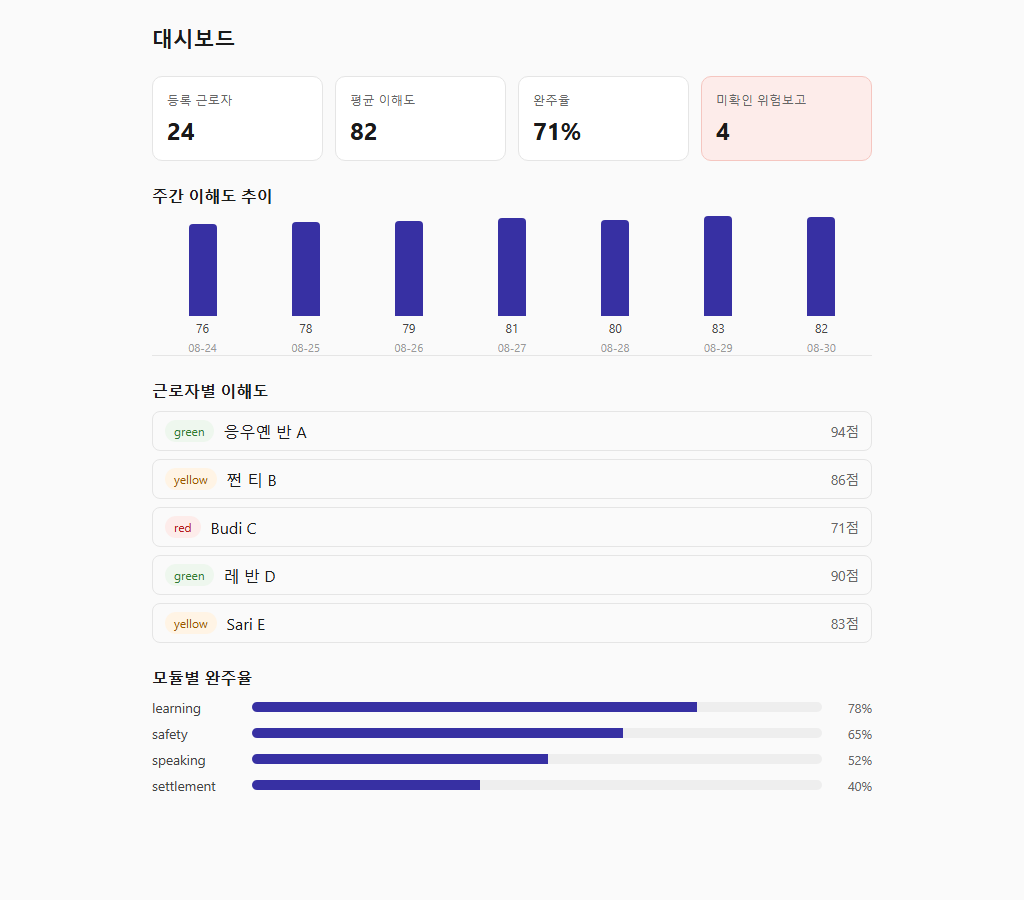
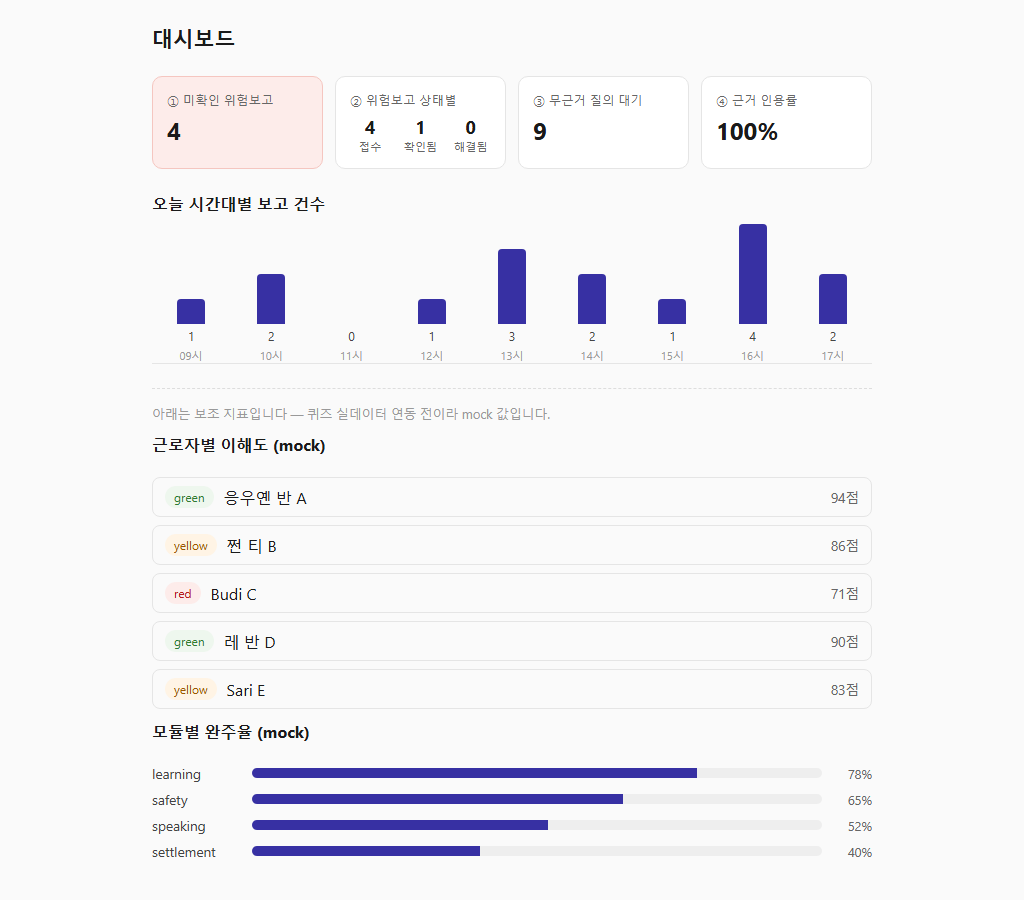
fix(frontend): B KPI 확정판 정정 — 4종 재구성 + 시간대별 추이
영향: JH

총괄 0830 정정 반영. KPI 4종:
① 미확인 위험보고 수 — A와 같은 mock 저장소를 직접 집계
   (adminReports.fixtures.statusCounts) — 고정값 아님, A에서 ack/resolve
   하면 B도 같이 바뀐다
② 위험보고 상태별 3칸(submitted/acknowledged/resolved, % 없음) — 동일 소스
③ 무근거 질의 대기 수 — mock 9(총괄 지정, unanswered_queue 실API 전)
④ 근거 인용률 % — mock 100(총괄 지정)

추이: 주간 → 오늘 시간대별(hourly) 보고 건수로 교체.
근로자별 라벨·모듈별 완주율은 제거 대신 하단 보조 영역으로 강등,
"mock" 명시 + 안내 문구 — 퀴즈 실데이터 연동 전 표시.

C·A 무변경. SB 실API 계약 표 나오면 dashboard.ts의 USE_MOCK 분기만
소비 전환(shape 그대로 유지 가능하도록 types.ts에 이미 반영).

DoD 캡처 갱신: docs/assets/v3-2-admin-dashboard.png

diff --git a/frontend/src/apps/admin/screens/Dashboard/index.tsx b/frontend/src/apps/admin/screens/Dashboard/index.tsx
@@ -16,46 +16,69 @@ export default function AdminDashboardScreen() {
   if (error) return <p className="error">{error}</p>;
   if (!data) return <p>불러오는 중...</p>;
 
-  const maxTrend = Math.max(...data.weekly_trend.map((p) => p.avg_comprehension), 1);
+  const maxTrend = Math.max(...data.hourly_trend.map((p) => p.count), 1);
 
   return (
     <div className="admin-dashboard" data-testid="admin-dashboard-screen">
       <h1>대시보드</h1>
 
       <div className="kpi-grid" data-testid="kpi-grid">
-        <div className="kpi-card">
-          <span className="kpi-label">등록 근로자</span>
-          <span className="kpi-value">{data.workers}</span>
-        </div>
-        <div className="kpi-card">
-          <span className="kpi-label">평균 이해도</span>
-          <span className="kpi-value">{data.avg_comprehension}</span>
-        </div>
-        <div className="kpi-card">
-          <span className="kpi-label">완주율</span>
-          <span className="kpi-value">{data.completion_rate}%</span>
-        </div>
         <div className="kpi-card kpi-card-alert" data-testid="kpi-open-reports">
-          <span className="kpi-label">미확인 위험보고</span>
+          <span className="kpi-label">① 미확인 위험보고</span>
           <span className="kpi-value">{data.open_reports}</span>
+        </div>
+
+        <div className="kpi-card kpi-card-triple" data-testid="kpi-status-counts">
+          <span className="kpi-label">② 위험보고 상태별</span>
+          <div className="triple-row">
+            <div className="triple-cell">
+              <span className="triple-value">{data.status_counts.submitted}</span>
+              <span className="triple-label">접수</span>
+            </div>
+            <div className="triple-cell">
+              <span className="triple-value">{data.status_counts.acknowledged}</span>
+              <span className="triple-label">확인됨</span>
+            </div>
+            <div className="triple-cell">
+              <span className="triple-value">{data.status_counts.resolved}</span>
+              <span className="triple-label">해결됨</span>
+            </div>
+          </div>
+        </div>
+
+        <div className="kpi-card" data-testid="kpi-ungrounded">
+          <span className="kpi-label">③ 무근거 질의 대기</span>
+          <span className="kpi-value">{data.ungrounded_pending}</span>
+        </div>
+
+        <div className="kpi-card" data-testid="kpi-grounded-rate">
+          <span className="kpi-label">④ 근거 인용률</span>
+          <span className="kpi-value">{data.grounded_rate}%</span>
         </div>
       </div>
 
       <section>
-        <h2>주간 이해도 추이</h2>
+        <h2>오늘 시간대별 보고 건수</h2>
         <div className="trend-bars" data-testid="trend-chart">
-          {data.weekly_trend.map((p) => (
-            <div key={p.date} className="trend-col">
-              <div className="trend-bar" style={{ height: `${(p.avg_comprehension / maxTrend) * 100}px` }} />
-              <span className="trend-val">{p.avg_comprehension}</span>
-              <span className="trend-date">{p.date}</span>
+          {data.hourly_trend.map((p) => (
+            <div key={p.hour} className="trend-col">
+              <div
+                className="trend-bar"
+                style={{ height: `${(p.count / maxTrend) * 100}px` }}
+              />
+              <span className="trend-val">{p.count}</span>
+              <span className="trend-date">{p.hour}시</span>
             </div>
           ))}
         </div>
       </section>
 
-      <section>
-        <h2>근로자별 이해도</h2>
+      <section className="secondary-section" data-testid="secondary-section">
+        <p className="secondary-note">
+          아래는 보조 지표입니다 — 퀴즈 실데이터 연동 전이라 mock 값입니다.
+        </p>
+
+        <h2>근로자별 이해도 (mock)</h2>
         <ul className="per-worker-list" data-testid="per-worker-list">
           {data.per_worker.map((w) => (
             <li key={w.worker_id}>
@@ -65,10 +88,8 @@ export default function AdminDashboardScreen() {
             </li>
           ))}
         </ul>
-      </section>
 
-      <section>
-        <h2>모듈별 완주율</h2>
+        <h2>모듈별 완주율 (mock)</h2>
         <ul className="per-module-list" data-testid="per-module-list">
           {data.per_module.map((m) => (
             <li key={m.module}>

diff --git a/frontend/src/api/fixtures/dashboard.fixtures.ts b/frontend/src/api/fixtures/dashboard.fixtures.ts
@@ -1,33 +1,40 @@
 import type { DashboardSummary } from "../types";
+import { statusCounts } from "./adminReports.fixtures";
 
-// KPI 4종(BLUEPRINT §4-6): 등록 수·평균 이해도·완주율·미확인 위험보고.
-// open_reports 는 adminReports.fixtures 의 초기 submitted 건수(4)와 일부러 맞췄다 —
-// 실API 연결 시 둘 다 같은 risk_reports 테이블을 읽으므로 자연히 일치한다(WORKORDER V3-2 DoD).
-export const dashboardMock: DashboardSummary = {
-  workers: 24,
-  avg_comprehension: 82,
-  completion_rate: 71,
-  open_reports: 4,
-  weekly_trend: [
-    { date: "08-24", avg_comprehension: 76 },
-    { date: "08-25", avg_comprehension: 78 },
-    { date: "08-26", avg_comprehension: 79 },
-    { date: "08-27", avg_comprehension: 81 },
-    { date: "08-28", avg_comprehension: 80 },
-    { date: "08-29", avg_comprehension: 83 },
-    { date: "08-30", avg_comprehension: 82 },
-  ],
-  per_worker: [
-    { worker_id: 1, name: "응우옌 반 A", comprehension: 94, label: "green" },
-    { worker_id: 2, name: "쩐 티 B", comprehension: 86, label: "yellow" },
-    { worker_id: 3, name: "Budi C", comprehension: 71, label: "red" },
-    { worker_id: 4, name: "레 반 D", comprehension: 90, label: "green" },
-    { worker_id: 5, name: "Sari E", comprehension: 83, label: "yellow" },
-  ],
-  per_module: [
-    { module: "learning", completion_rate: 78 },
-    { module: "safety", completion_rate: 65 },
-    { module: "speaking", completion_rate: 52 },
-    { module: "settlement", completion_rate: 40 },
-  ],
-};
+// KPI 4종 확정판(총괄 0830 정정). ①② 는 adminReports.fixtures 의 실제 mock 저장소를
+// 집계해서 A 화면과 항상 같은 숫자가 나오게 한다 — 고정값을 맞춰두는 방식이 아니다.
+// ③④(무근거 대기 수·근거 인용률)는 대응 화면·API가 아직 없어 총괄 지정 mock값 사용.
+export function buildDashboardMock(): DashboardSummary {
+  const counts = statusCounts();
+  return {
+    open_reports: counts.submitted,
+    status_counts: counts,
+    ungrounded_pending: 9, // 총괄 권장 mock값 — unanswered_queue 실API 전
+    grounded_rate: 100, // 총괄 권장 mock값
+    hourly_trend: [
+      { hour: "09", count: 1 },
+      { hour: "10", count: 2 },
+      { hour: "11", count: 0 },
+      { hour: "12", count: 1 },
+      { hour: "13", count: 3 },
+      { hour: "14", count: 2 },
+      { hour: "15", count: 1 },
+      { hour: "16", count: 4 },
+      { hour: "17", count: 2 },
+    ],
+    // 보조 영역 — 퀴즈 실데이터 전이라 mock. "근로자별 이해도" 접점 유지용.
+    per_worker: [
+      { worker_id: 1, name: "응우옌 반 A", comprehension: 94, label: "green" },
+      { worker_id: 2, name: "쩐 티 B", comprehension: 86, label: "yellow" },
+      { worker_id: 3, name: "Budi C", comprehension: 71, label: "red" },
+      { worker_id: 4, name: "레 반 D", comprehension: 90, label: "green" },
+      { worker_id: 5, name: "Sari E", comprehension: 83, label: "yellow" },
+    ],
+    per_module: [
+      { module: "learning", completion_rate: 78 },
+      { module: "safety", completion_rate: 65 },
+      { module: "speaking", completion_rate: 52 },
+      { module: "settlement", completion_rate: 40 },
+    ],
+  };
+}

diff --git a/frontend/src/api/types.ts b/frontend/src/api/types.ts
@@ -82,14 +82,19 @@ export interface TransitionResult {
   status: ReportStatus;
 }
 
-// 대시보드 — skeleton-v3 §3 GET /admin/dashboard (B). 응답 필드 목록만 계약, 항목별
-// 내부 shape 은 §3 미정의 — BLUEPRINT §4-6 "등록 수·평균 이해도·완주율·미확인 위험보고·
-// 주간 추이·근로자별/모듈별" 기준으로 구성. 백엔드 실API 배선 시 이 타입이 실계약.
+// 대시보드 — skeleton-v3 §3 GET /admin/dashboard (B). KPI 4종 확정판(총괄 0830 정정,
+// SB 계약 표 확정 전까지 이 shape이 mock 정본 — 실API 배선 시 이 타입이 실계약).
 export type ComprehensionLabel = "red" | "yellow" | "green";
 
-export interface WeeklyTrendPoint {
-  date: string;
-  avg_comprehension: number;
+export interface ReportStatusCounts {
+  submitted: number;
+  acknowledged: number;
+  resolved: number;
+}
+
+export interface HourlyTrendPoint {
+  hour: string; // "09" 등 — 오늘 시간대
+  count: number;
 }
 
 export interface PerWorkerRow {
@@ -105,13 +110,13 @@ export interface PerModuleRow {
 }
 
 export interface DashboardSummary {
-  workers: number;
-  avg_comprehension: number;
-  completion_rate: number;
-  open_reports: number;
-  weekly_trend: WeeklyTrendPoint[];
-  per_worker: PerWorkerRow[];
-  per_module: PerModuleRow[];
+  open_reports: number; // KPI① 미확인 위험보고 수 — A 화면과 동일 소스
+  status_counts: ReportStatusCounts; // KPI② 상태별 3칸 (건수, % 없음)
+  ungrounded_pending: number; // KPI③ 무근거 질의 대기 수 (unanswered_queue, mock)
+  grounded_rate: number; // KPI④ 근거 인용률 % (mock)
+  hourly_trend: HourlyTrendPoint[]; // 오늘 시간대별 보고 건수
+  per_worker: PerWorkerRow[]; // 보조 영역 — 퀴즈 실데이터 전, mock 명시
+  per_module: PerModuleRow[]; // 보조 영역 — mock 명시
 }
 
 // 승인큐 — skeleton-v3 §3 GET /admin/glossary?status= / approve|reject (C). DB(001) 컬럼 그대로.

diff --git a/frontend/src/api/dashboard.ts b/frontend/src/api/dashboard.ts
@@ -1,14 +1,14 @@
 import type { DashboardSummary } from "./types";
-import { dashboardMock } from "./fixtures/dashboard.fixtures";
+import { buildDashboardMock } from "./fixtures/dashboard.fixtures";
 
-// Mock 경계 (skeleton-v3 §7). GET /admin/dashboard 는 백엔드 스텁(NotImplementedError,
-// 0830 확인) — 실API 붙으면 이 파일의 USE_MOCK 분기만 자연 소멸.
+// Mock 경계 (skeleton-v3 §7). GET /admin/dashboard 는 SB 실API 착수 중(0830, 19:00
+// 완료선) — 계약 표 나오는 대로 이 파일의 USE_MOCK 분기만 소비 전환.
 const USE_MOCK = import.meta.env.VITE_USE_MOCK !== "false";
 
 export async function getDashboard(): Promise<DashboardSummary> {
   if (USE_MOCK) {
     await delay(150);
-    return dashboardMock;
+    return buildDashboardMock();
   }
   const res = await fetch("/api/v1/admin/dashboard");
   if (!res.ok) throw new Error(`dashboard failed: ${res.status}`);

diff --git a/frontend/src/api/fixtures/adminReports.fixtures.ts b/frontend/src/api/fixtures/adminReports.fixtures.ts
@@ -128,3 +128,13 @@ export function resolveMock(
   r.events = [...r.events, mkEvent("report_resolved", "acknowledged", "resolved")];
   return { id, status: r.status };
 }
+
+// 대시보드(B) KPI①② 소스 — A와 같은 mock 저장소를 직접 집계한다(총괄 지시: "A 화면과
+// 동일 소스"). 실API 전환 시에도 둘 다 같은 risk_reports 테이블이라 자연히 일치.
+export function statusCounts(): { submitted: number; acknowledged: number; resolved: number } {
+  return {
+    submitted: store.filter((r) => r.status === "submitted").length,
+    acknowledged: store.filter((r) => r.status === "acknowledged").length,
+    resolved: store.filter((r) => r.status === "resolved").length,
+  };
+}

diff --git a/frontend/src/apps/admin/screens/Dashboard/Dashboard.css b/frontend/src/apps/admin/screens/Dashboard/Dashboard.css
@@ -49,6 +49,46 @@
   font-weight: 700;
 }
 
+.kpi-card-triple {
+  justify-content: space-between;
+}
+
+.triple-row {
+  display: flex;
+  gap: 10px;
+}
+
+.triple-cell {
+  display: flex;
+  flex-direction: column;
+  align-items: center;
+  flex: 1;
+}
+
+.triple-value {
+  font-size: 1.15rem;
+  font-weight: 700;
+}
+
+.triple-label {
+  font-size: 0.7rem;
+  color: #666;
+}
+
+.secondary-section {
+  border-top: 1px dashed #ddd;
+  padding-top: 16px;
+  display: flex;
+  flex-direction: column;
+  gap: 12px;
+}
+
+.secondary-note {
+  margin: 0;
+  font-size: 0.8rem;
+  color: #999;
+}
+
 .trend-bars {
   display: flex;
   align-items: flex-end;
